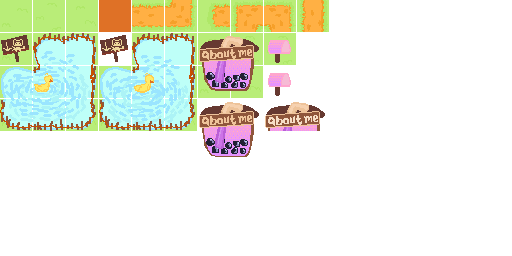
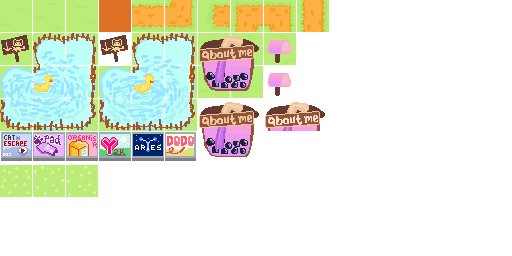
projects and stuff

Changed region(s): [[0.0, 0.5, 0.4062, 0.7812]]

diff --git a/public/sketch.js b/public/sketch.js
@@ -15,17 +15,17 @@ let modal;
 let myself;
 
 let map = [
-    [3, 2, 1, 17, 18, 1, 2, 1, 1, 3, 1, 1, 2, 1, 1, 1, 1, 1, 1, 1],
-    [2, 1, 19, 27, 28, 8, 5, 5, 5, 9, 1, 3, 1, 2, 1, 1, 1, 3, 1, 2],
-    [1, 7, 5, 5, 5, 6, 11, 12, 13, 10, 1, 1, 2, 1, 1, 3, 1, 1, 1, 1],
-    [1, 2, 1, 1, 2, 1, 21, 22, 23, 10, 3, 1, 3, 1, 1, 2, 1, 3, 2, 1],
-    [3, 1, 3, 1, 1, 1, 31, 32, 33, 10, 1, 3, 1, 1, 3, 1, 3, 1, 1, 2],
-    [1, 7, 5, 5, 5, 5, 5, 5, 5, 6, 2, 1, 1, 2, 1, 1, 1, 3, 1, 1],
+    [3, 2, 1, 17, 18, 41, 42, 43, 44, 45, 46, 1, 2, 1, 1, 1, 1, 1, 1, 1],
+    [2, 1, 19, 27, 28, 8, 5, 5, 5, 9, 51, 3, 1, 2, 1, 1, 1, 3, 1, 2],
+    [1, 7, 5, 5, 5, 6, 11, 12, 13, 10, 52, 1, 2, 1, 1, 3, 1, 1, 1, 1],
+    [1, 2, 1, 1, 2, 1, 21, 22, 23, 10, 51, 1, 3, 1, 1, 2, 1, 3, 2, 1],
+    [3, 1, 3, 1, 1, 1, 31, 32, 33, 10, 53, 3, 1, 1, 3, 1, 3, 1, 1, 2],
+    [1, 7, 5, 5, 5, 5, 5, 5, 5, 6, 51, 1, 1, 2, 1, 1, 1, 3, 1, 1],
     [2, 1, 2, 1, 1, 1, 1, 3, 1, 1, 2, 1, 3, 1, 1, 1, 1, 1, 1, 1]
 ];
 
 let map_stuff = [
-    [20, 20, 20, 37, 38, 20, 20, 20, 20, 20, 20, 20, 20, 20, 20, 20, 20, 20, 20, 20],
+    [20, 20, 20, 37, 38, 41, 42, 43, 44, 45, 46, 20, 20, 20, 20, 20, 20, 20, 20, 20],
     [20, 20, 29, 47, 48, 20, 20, 20, 20, 20, 20, 20, 20, 20, 20, 20, 20, 20, 20, 20],
     [20, 20, 20, 20, 20, 20, 14, 20, 20, 20, 20, 20, 20, 20, 20, 20, 20, 20, 20, 20],
     [20, 20, 20, 20, 20, 20, 20, 20, 20, 20, 20, 20, 20, 20, 20, 20, 20, 20, 20, 20],
@@ -36,11 +36,17 @@ let map_stuff = [
 
 let slct_detector = {
     about: [27, 28, 17, 18],
-    mail: [19]
+    mail: [19],
+    bb_catesc: [41],
+    bb_meowpad: [42],
+    bb_organisr: [43],
+    bb_y2k: [44],
+    bb_aries: [45],
+    bb_dodo: [46]
 }
 
 let col_list = [22, 23, 24, 25, 31, 32, 33, 34, 35, 36, 12, 13, 15, 16, 4, 17, 18];
-let inte_list = [27, 28, 29, 19, 11];
+let inte_list = [27, 28, 29, 19, 11, 41, 42, 43, 44, 45, 46];
 
 let cameraX = -300;
 let cameraY = -200;
@@ -135,6 +141,7 @@ function setup() {
 
     playerX = scaler.width() / 2;
     playerY = scaler.height() / 2;
+    socket.emit('move', { x: cameraX, y: cameraY, state: player_state });
 }
 
 function getTileAt(worldX, worldY) {
@@ -207,7 +214,7 @@ function moveCharacter() {
 
 
     if (keyIsDown("W".charCodeAt(0))) {
-        if (!isCollidingTile(0, 0) && !isCollidingInteractable(0, -20)) {
+        if (!isCollidingTile(0, 0) && !isCollidingInteractable(0, -40)) {
             cameraY -= camYSpeed;
         }
 
@@ -290,6 +297,22 @@ function drawModal(content) {
         translate(-60, 20);
         image(myself, 700, 140, 32 * 3.5, 48 * 3.5);
         pop();
+    }
+
+    if (keyIsDown("F".charCodeAt(0))) {
+        if (crntModal === 'catesc') {
+            window.open("https://escape.violetzcandy.com/", "_blank");
+        } else if (crntModal === 'meowpad') {
+            window.open("https://github.com/codingkatty/meowpad", "_blank");
+        } else if (crntModal === 'organisr') {
+            window.open("https://github.com/codingkatty/organisr", "_blank");
+        } else if (crntModal === 'y2k') {
+            window.open("https://github.com/codingkatty/y2kos", "_blank");
+        } else if (crntModal === 'aries') {
+            window.open("https://github.com/codingkatty/aries", "_blank");
+        } else if (crntModal === 'dodo') {
+            window.open("https://github.com/codingkatty/extension", "_blank");
+        }
     }
 }
 
@@ -393,25 +416,37 @@ function draw() {
     teleporter();
 
     if (isClose(slct_detector.about)) {
-        map_stuff[0] = [20, 20, 20, 39, 40, 20, 20, 20, 20, 20, 20, 20, 20, 20, 20, 20, 20, 20, 20, 20]
+        map_stuff[0] = [20, 20, 20, 39, 40, 41, 42, 43, 44, 45, 46, 20, 20, 20, 20, 20, 20, 20, 20, 20]
         drawInteractE('about');
     } else if (isClose(slct_detector.mail)) {
         drawInteractE('mail');
+    } else if (isClose(slct_detector.bb_catesc)) {
+        drawInteractE('Cat Escape Room');
+    } else if (isClose(slct_detector.bb_meowpad)) {
+        drawInteractE('Meowpad');
+    } else if (isClose(slct_detector.bb_organisr)) {
+        drawInteractE('Organisr');
+    } else if (isClose(slct_detector.bb_y2k)) {
+        drawInteractE('Y2K WebOS');
+    } else if (isClose(slct_detector.bb_aries)) {
+        drawInteractE('Project Aries');
+    } else if (isClose(slct_detector.bb_dodo)) {
+        drawInteractE('Dodo Sketchboard');
     }
 
     if (!isClose(slct_detector.about)) {
-        map_stuff[0] = [20, 20, 20, 37, 38, 20, 20, 20, 20, 20, 20, 20, 20, 20, 20, 20, 20, 20, 20, 20]
+        map_stuff[0] = [20, 20, 20, 37, 38, 41, 42, 43, 44, 45, 46, 20, 20, 20, 20, 20, 20, 20, 20, 20]
     }
 
 
     if (pool_state) {
-        map[2] = [1, 7, 5, 5, 5, 6, 11, 15, 16, 10, 1, 1, 2, 1, 1, 3, 1, 1, 1, 1]
-        map[3] = [1, 2, 1, 1, 2, 1, 24, 25, 26, 10, 3, 1, 3, 1, 1, 2, 1, 3, 2, 1]
-        map[4] = [3, 1, 3, 1, 1, 1, 34, 35, 36, 10, 1, 3, 1, 1, 3, 1, 3, 1, 1, 2]
+        map[2] = [1, 7, 5, 5, 5, 6, 11, 15, 16, 10, 52, 1, 2, 1, 1, 3, 1, 1, 1, 1]
+        map[3] = [1, 2, 1, 1, 2, 1, 24, 25, 26, 10, 51, 1, 3, 1, 1, 2, 1, 3, 2, 1]
+        map[4] = [3, 1, 3, 1, 1, 1, 34, 35, 36, 10, 53, 3, 1, 1, 3, 1, 3, 1, 1, 2]
     } else {
-        map[2] = [1, 7, 5, 5, 5, 6, 11, 12, 13, 10, 1, 1, 2, 1, 1, 3, 1, 1, 1, 1]
-        map[3] = [1, 2, 1, 1, 2, 1, 21, 22, 23, 10, 3, 1, 3, 1, 1, 2, 1, 3, 2, 1]
-        map[4] = [3, 1, 3, 1, 1, 1, 31, 32, 33, 10, 1, 3, 1, 1, 3, 1, 3, 1, 1, 2]
+        map[2] = [1, 7, 5, 5, 5, 6, 11, 12, 13, 10, 52, 1, 2, 1, 1, 3, 1, 1, 1, 1]
+        map[3] = [1, 2, 1, 1, 2, 1, 21, 22, 23, 10, 51, 1, 3, 1, 1, 2, 1, 3, 2, 1]
+        map[4] = [3, 1, 3, 1, 1, 1, 31, 32, 33, 10, 53, 3, 1, 1, 3, 1, 3, 1, 1, 2]
     }
 
     for (let y = 0; y < map.length; y++) {
@@ -459,6 +494,79 @@ function keyPressed() {
                 ["", ""],
                 ["v1.0.0 - the first version! game-like, cool, with all the basics.", ""],
                 ["Look around and explore!", ""]
+            ];
+        } else if (isClose(slct_detector.bb_catesc)) {
+            crntModal = 'catesc';
+            thetext = [
+                ["Cat Escape", ""],
+                ["A team project with @violetz12 / Zhi Cheng", "#8d2800"],
+                ["", ""],
+                ["Escape the cat- a thrilling escape room to explore! As a bird ", ""],
+                ["or a mouse, navigate the puzzle and find your way out. Did ", ""],
+                ["I mention that it was a co-op game too?", ""],
+                ["", ""],
+                ["Press F to teleport to game!!", "#ff7b00"]
+            ];
+        } else if (isClose(slct_detector.bb_meowpad)) {
+            crntModal = 'meowpad';
+            thetext = [
+                ["Meowpad: cat themed macropad", "#50007a"],
+                ["A submission for #highway, too.", ""],
+                ["", ""],
+                ["Meowpad is a macropad that features 4 keys, a neopixel and ", ""],
+                ["a 0.91\" OLED screen. The color scheme is purple-ish and it ", ""],
+                ["is generally cat themed.", ""],
+                ["", ""],
+                ["Press F to open github repository", "#50007a"]
+            ];
+        } else if (isClose(slct_detector.bb_organisr)) {
+            crntModal = 'organisr';
+            thetext = [
+                ["Organisr", "rainbow"],
+                ["", ""],
+                ["There were times when I lost stuff and wished I've known ", ""],
+                ["where they were.", ""],
+                ["So I made organisr. This app can be used to store where your ", ""],
+                ["belongings are. You can take a picture and add it into a 'box',", ""],
+                ["which is a virtual container for your items.", ""],
+                ["", ""],
+                ["Press F to open github repository", "rainbow"]
+            ];
+        } else if (isClose(slct_detector.bb_y2k)) {
+            crntModal = 'y2k';
+            thetext = [
+                ["Y2K WebOS", "rainbow"],
+                ["A retro-inspired WebOS.", ""],
+                ["", ""],
+                ["I joined a retro themed hackathon- and this was the best idea ", ""],
+                ["that popped in my mind. I had this vision of a retro WebOS ", ""],
+                ["that is themed around the Y2K bug that happened in 2000.", ""],
+                ["", ""],
+                ["PRESS F- TAKE ME TO YOUR REPOSITORY (error 2000)", "#1d7200"],
+            ];
+        } else if (isClose(slct_detector.bb_aries)) {
+            crntModal = 'aries';
+            thetext = [
+                ["Project Aries", "#220072"],
+                ["Cool map about exoplanets! Made with Zhi Cheng", ""],
+                ["", ""],
+                ["This project is a map that shows all exoplanets, using data ", ""],
+                ["from NASA. It was a submission to the NASA Space Apps ", ""],
+                ["Challenge.", ""],
+                ["", ""],
+                ["Press F to rocket to the repository!", "#220072"],
+            ];
+        } else if (isClose(slct_detector.bb_dodo)) {
+            crntModal = 'dodo';
+            thetext = [
+                ["Dodo Sketchboard", "#ff0088"],
+                ["Note extension for chrome!", ""],
+                ["", ""],
+                ["A simple sketchboard you can use to jot down things right in ", ""],
+                ["your browser- very convenient and easy to use! It is ", ""],
+                ["currently available in the chrome web store.", ""],
+                ["", ""],
+                ["Press F to open the repository.", "#ff0088"],
             ];
         }
     }
